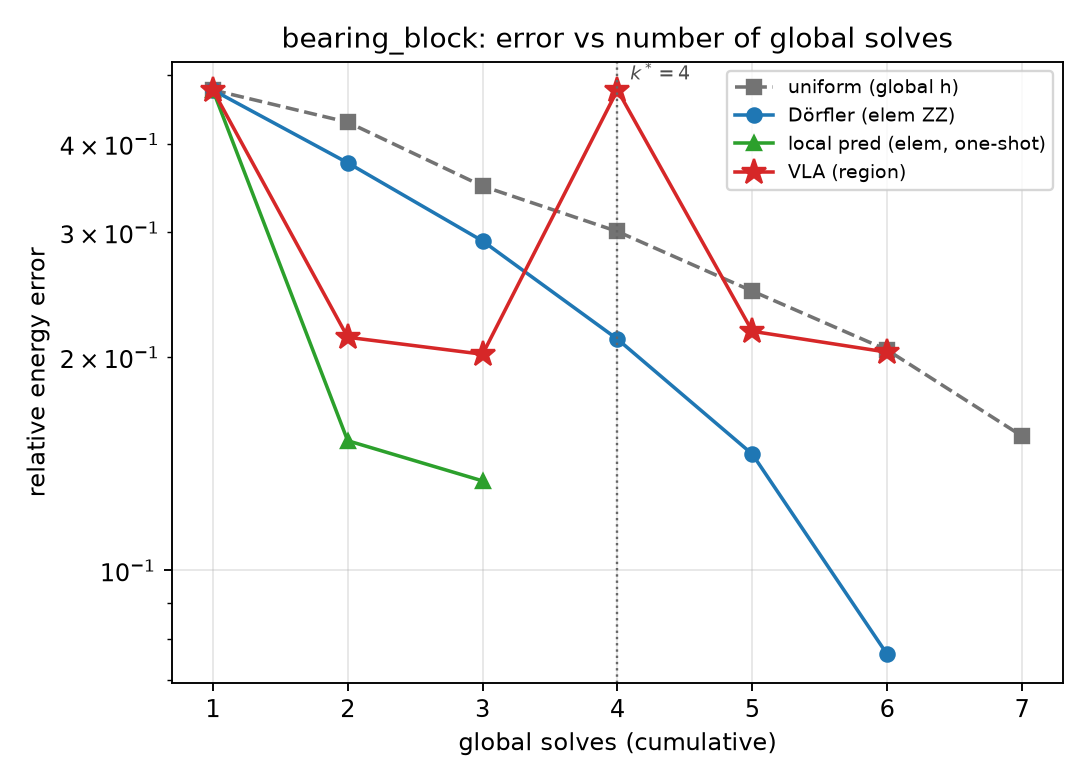
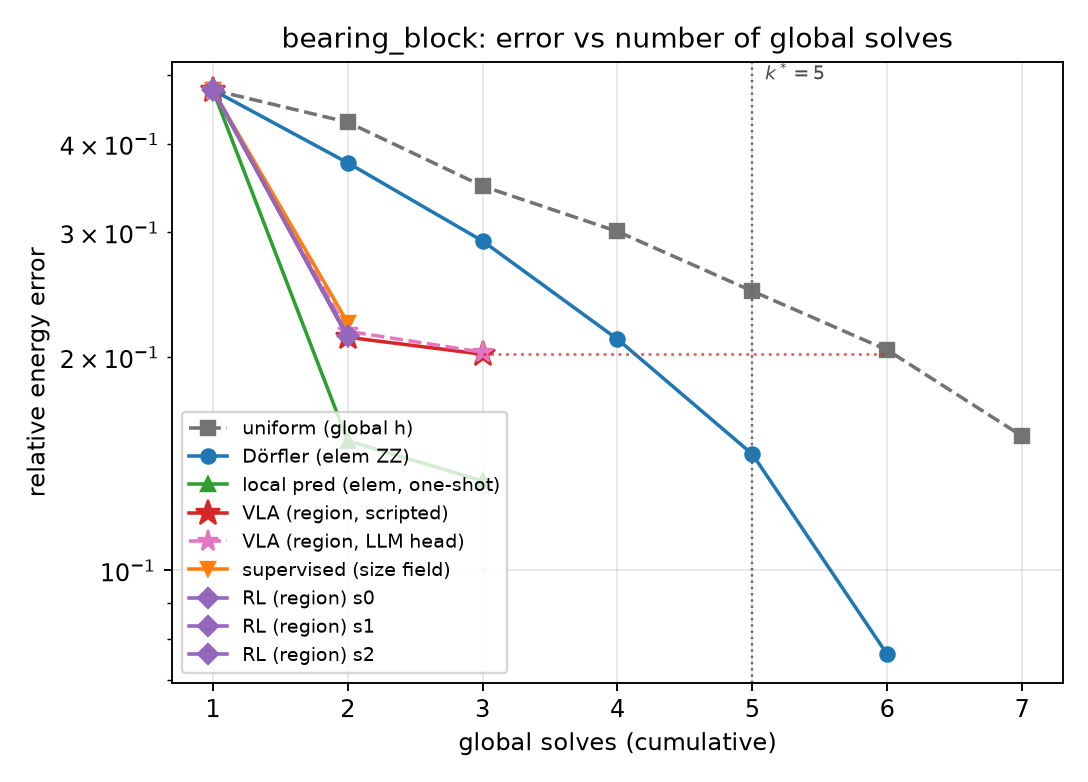
Fix stitched VLA figure series and draw k* against the held deliverable.
LLM-head records share method="vla" with scripted; the solves figure merged the two runs into one curve (fake spike at k=4, k* misplaced). Separate the series, hold the certified iterate as a dotted continuation, and mark k*=5. Not a scientific conclusion.

diff --git a/visionamr/viz.py b/visionamr/viz.py
@@ -172,6 +172,7 @@ METHOD_STYLE = {
     "dorfler_zz": dict(color="tab:blue", marker="o", ls="-"),
     "local_prediction": dict(color="tab:green", marker="^", ls="-"),
     "vla": dict(color="tab:red", marker="*", ls="-", ms=11),
+    "vla_llm": dict(color="tab:pink", marker="*", ls="--", ms=9),
     "rl_dqn": dict(color="tab:purple", marker="D", ls="-"),
     "supervised": dict(color="tab:orange", marker="v", ls="-"),
 }
@@ -182,7 +183,8 @@ ATOM_LABEL = {
     "uniform": "uniform (global h)",
     "dorfler_zz": "Dörfler (elem ZZ)",
     "local_prediction": "local pred (elem, one-shot)",
-    "vla": "VLA (region)",
+    "vla": "VLA (region, scripted)",
+    "vla_llm": "VLA (region, LLM head)",
     "rl_dqn": "RL (region)",
     "supervised": "supervised (size field)",
 }
@@ -255,15 +257,24 @@ def plot_error_vs_solves(
         ys = [r.e_energy for r in recs]
         series[method] = (xs, ys)
         ax.semilogy(xs, ys, label=_method_label(method), **style)
-    # H4: first k where Dörfler undercuts VLA, if both present
+    # H4: first k where Dörfler undercuts the *held* VLA deliverable.
+    # The VLA series ends when it certifies; A2' semantics hold the
+    # deliverable afterwards, drawn as a faint continuation.
     if "dorfler_zz" in series and "vla" in series:
         d_ys = series["dorfler_zz"][1]
         v_ys = series["vla"][1]
+        if len(d_ys) > len(v_ys) and v_ys and v_ys[-1] is not None:
+            xs_hold = list(range(len(v_ys), len(d_ys) + 1))
+            ax.semilogy(xs_hold, [v_ys[-1]] * len(xs_hold), color="tab:red",
+                        ls=":", lw=1.2, alpha=0.7)
         k_star = None
-        for k in range(1, min(len(d_ys), len(v_ys)) + 1):
-            if d_ys[k - 1] is None or v_ys[k - 1] is None:
+        v_hold = None
+        for k in range(1, len(d_ys) + 1):
+            if k <= len(v_ys) and v_ys[k - 1] is not None:
+                v_hold = v_ys[k - 1]
+            if v_hold is None or d_ys[k - 1] is None:
                 continue
-            if d_ys[k - 1] < v_ys[k - 1]:
+            if d_ys[k - 1] < v_hold:
                 k_star = k
                 break
         if k_star is not None:

diff --git a/visionamr/campaign.py b/visionamr/campaign.py
@@ -856,7 +856,12 @@ def step_s8() -> dict:
             "records_rl_dqn_s1.json",
             "records_rl_dqn_s2.json",
         ):
-            recs.extend(load_method_records(fam, "canonical", glob.replace("b*", f"b{PILOT_EQ[fam]}")))
+            loaded = load_method_records(fam, "canonical", glob.replace("b*", f"b{PILOT_EQ[fam]}"))
+            if "llm" in glob:
+                # both heads dump method="vla"; keep them separate series so
+                # the solves axis never stitches two runs into one curve
+                loaded = [{**r, "method": "vla_llm"} for r in loaded]
+            recs.extend(loaded)
         # wrap as simple namespace for viz
         class R:
             def __init__(self, d):

diff --git a/tests/test_vla_units.py b/tests/test_vla_units.py
@@ -214,6 +214,16 @@ def test_budget_rows_lp_stays_same_tier():
     assert last != dumped_tail
 
 
+def test_s8_figures_never_stitch_llm_into_scripted_vla_series():
+    """G6/§8: two VLA runs must not merge into one solves curve."""
+
+    from pathlib import Path
+
+    src = (Path(__file__).resolve().parents[1] / "visionamr" / "campaign.py").read_text()
+    assert 'if "llm" in glob' in src
+    assert '"method": "vla_llm"' in src
+
+
 def test_a2prime_discloses_dorfler_budget_and_learned_columns():
     """Audit lock: A2′ shows Dörfler N/B and the learned deliverables."""
 

diff --git a/docs/RESULTS.md b/docs/RESULTS.md
@@ -9,24 +9,28 @@
 - **H1**（少求解次数处 VLA 优于 Dörfler，加速比 ≥ 1.5×）：**不成立**
 - **H2**（预算占用 ∈ [90%, 105%]）：**不成立**
 - **H3**（免训练达到学习方法同量级）：**证据不足**
-- **H4**（交叉点 k*）：`{'bearing_block': 5, 'deck_panel': 5}`
+- **H4**（交叉点 k*，Dörfler 未封顶）：`{'bearing_block': 5, 'deck_panel': 5}`
+- H4 预算内交叉（Dörfler N ≤ 1.05×试点档时）：`{'bearing_block': None, 'deck_panel': 5}`
 
 ## A2′ 误差 @ k 次全局求解（canonical，试点预算档）
 
-| family | k | Dörfler | VLA (scripted) | local_prediction |
-|---|---:|---:|---:|---:|
-| bearing_block | 1 | 0.4766 | 0.4766 | 0.4766 |
-| bearing_block | 2 | 0.3762 | 0.2134 | 0.2006 |
-| bearing_block | 3 | 0.2918 | 0.2019 | 0.1811 |
-| bearing_block | 4 | 0.2121 | 0.2019 | — |
-| bearing_block | 5 | 0.1459 | 0.2019 | — |
-| bearing_block | 6 | 0.0761 | 0.2019 | — |
-| deck_panel | 1 | 0.7085 | 0.7085 | 0.7085 |
-| deck_panel | 2 | 0.6053 | 0.3610 | 0.3515 |
-| deck_panel | 3 | 0.4986 | 0.3610 | 0.2830 |
-| deck_panel | 4 | 0.3965 | 0.3549 | — |
-| deck_panel | 5 | 0.2879 | 0.3549 | — |
-| deck_panel | 6 | 0.1803 | 0.3549 | — |
+带 `*` 的 Dörfler 轮次其 N 超过试点预算 105%（S2 经典循环封顶在最大档，
+资源侧见 N/B 列与 A3）。监督/RL 第 2 次求解后交付并保持。
+
+| family | k | Dörfler | Dörfler N/B | VLA (scripted) | local_prediction | supervised | RL (3种子中位) |
+|---|---:|---:|---:|---:|---:|---:|---:|
+| bearing_block | 1 | 0.4766 | 0.08 | 0.4766 | 0.4766 | 0.4766 | 0.4766 |
+| bearing_block | 2 | 0.3762 | 0.13 | 0.2134 | 0.2006 | 0.2237 | 0.2141 |
+| bearing_block | 3 | 0.2918 | 0.25 | 0.2019 | 0.1811 | 0.2237 | 0.2141 |
+| bearing_block | 4 | 0.2121 | 0.53 | 0.2019 | — | 0.2237 | 0.2141 |
+| bearing_block | 5 | 0.1459* | 1.17 | 0.2019 | — | 0.2237 | 0.2141 |
+| bearing_block | 6 | 0.0761* | 2.76 | 0.2019 | — | 0.2237 | 0.2141 |
+| deck_panel | 1 | 0.7085 | 0.10 | 0.7085 | 0.7085 | 0.7085 | 0.7085 |
+| deck_panel | 2 | 0.6053 | 0.14 | 0.3610 | 0.3515 | 0.3793 | 0.3877 |
+| deck_panel | 3 | 0.4986 | 0.23 | 0.3610 | 0.2830 | 0.3793 | 0.3877 |
+| deck_panel | 4 | 0.3965 | 0.45 | 0.3549 | — | 0.3793 | 0.3877 |
+| deck_panel | 5 | 0.2879 | 0.89 | 0.3549 | — | 0.3793 | 0.3877 |
+| deck_panel | 6 | 0.1803* | 1.90 | 0.3549 | — | 0.3793 | 0.3877 |
 
 ## A2″ 加速比（到达 Dörfler 第 4/6 轮误差）
 
@@ -799,6 +803,7 @@
 ## 诚实边界
 
 - Dörfler 的渐近最优性不在本文争夺范围；k* 交叉若出现必须画出。
+- A2′ 的 Dörfler 列不按试点档封顶（S2 给经典循环的帽是最大档）；超 105% 的轮次带 `*`，预算内交叉在假设判定单列。A2″ 的第 4/6 轮目标误差同样取自该未封顶序列。
 - 局部预测是逐单元一步预测，不是分区方法；其预算偏差如实列入。
 - LLM 头失败回退 Scripted 时计入回退率，不把 Scripted 数字标成 LLM。
 - 训练期求解（监督专家库、RL episode）单列，不混进部署 k 轴。
